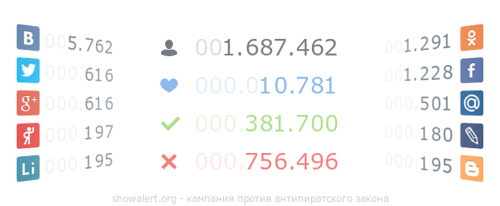
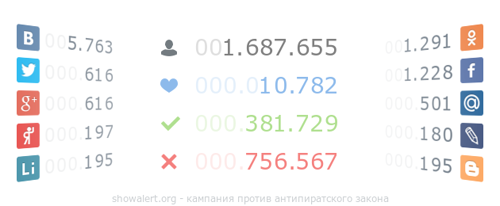
update statistics files for plugins

diff --git a/votes.js b/votes.js
@@ -1,1 +1,1 @@
-window.lk.votes(33313)
+window.lk.votes(33319)
